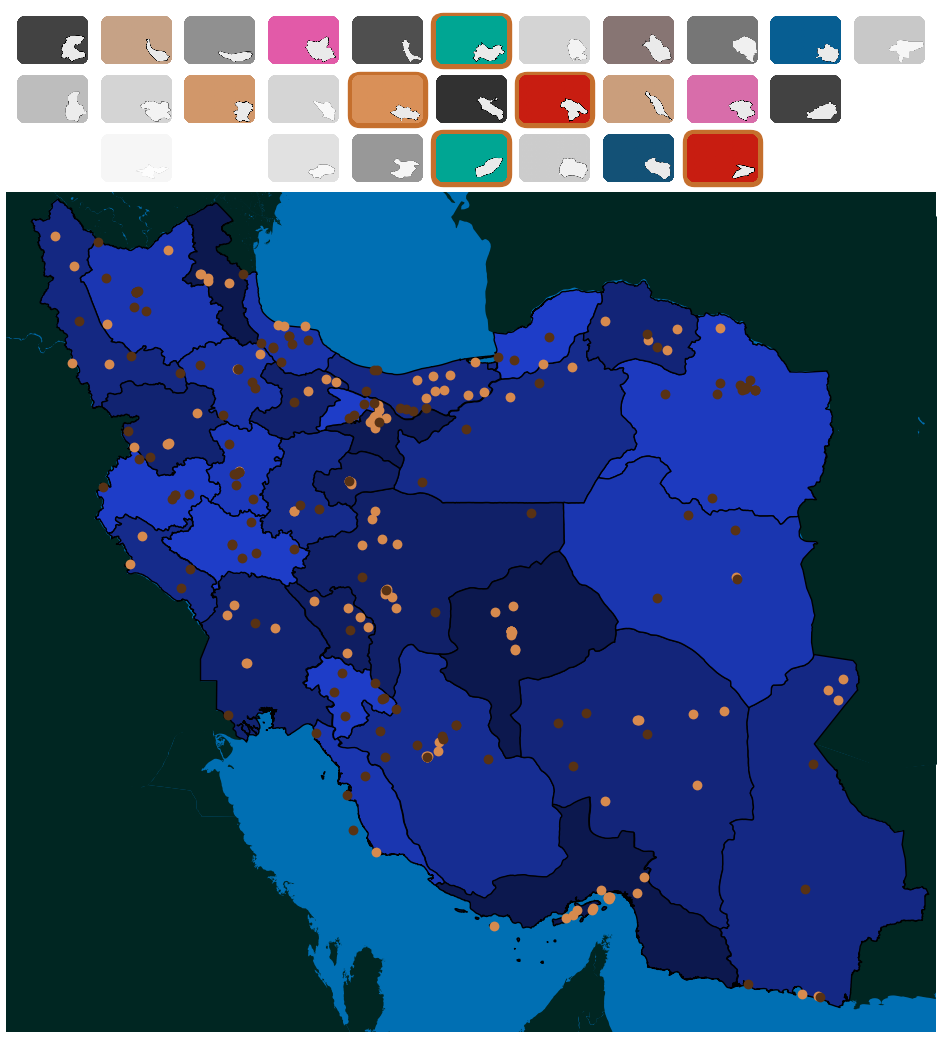
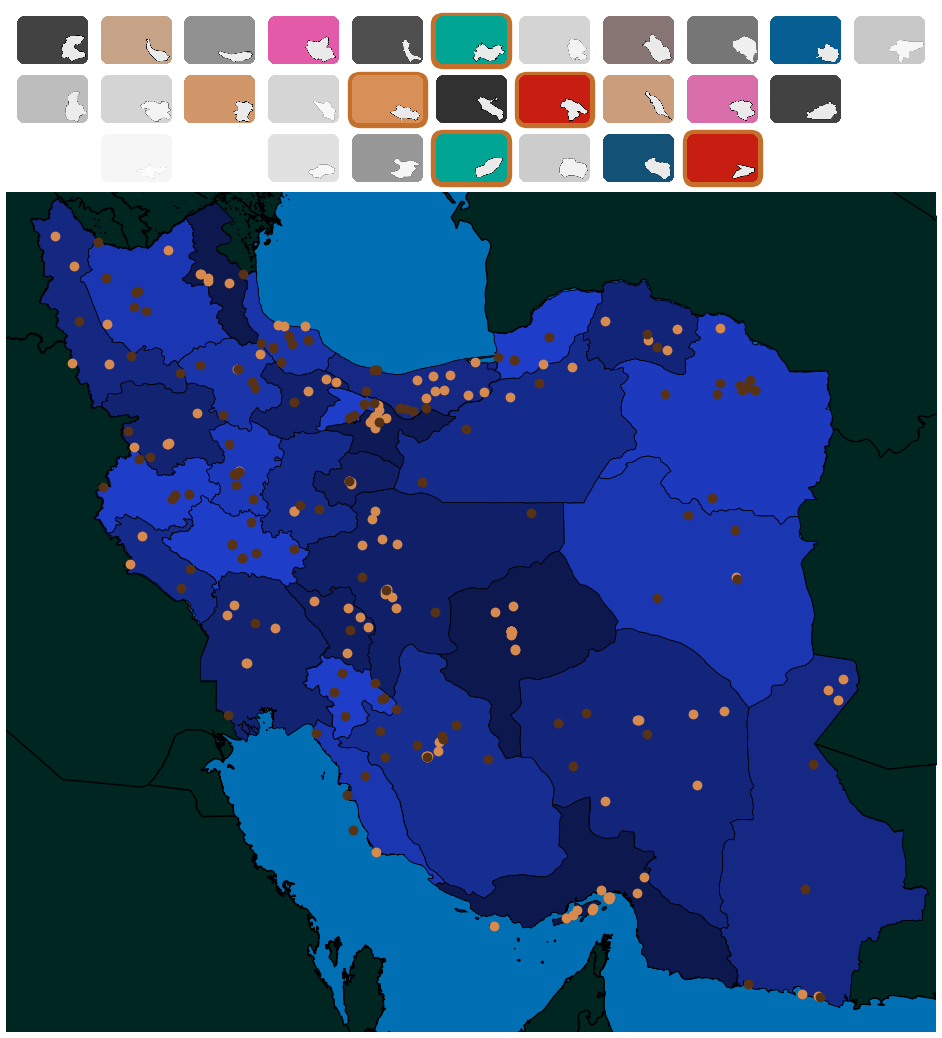
add new location

diff --git a/main.py b/main.py
@@ -15,13 +15,13 @@ from utils.file_utils import ensure_directory_exists
 #PATH = "us"
 
 # Germany Global Variables
-PATH = "de"
+#PATH = "de"
 
 # Europe Global Variables
 #PATH = "eu"
 
 # Iran Global Variables
-#PATH = "ir"
+PATH = "ir"
 
 # Ensure output folders exist
 ensure_directory_exists("plots/temp")
